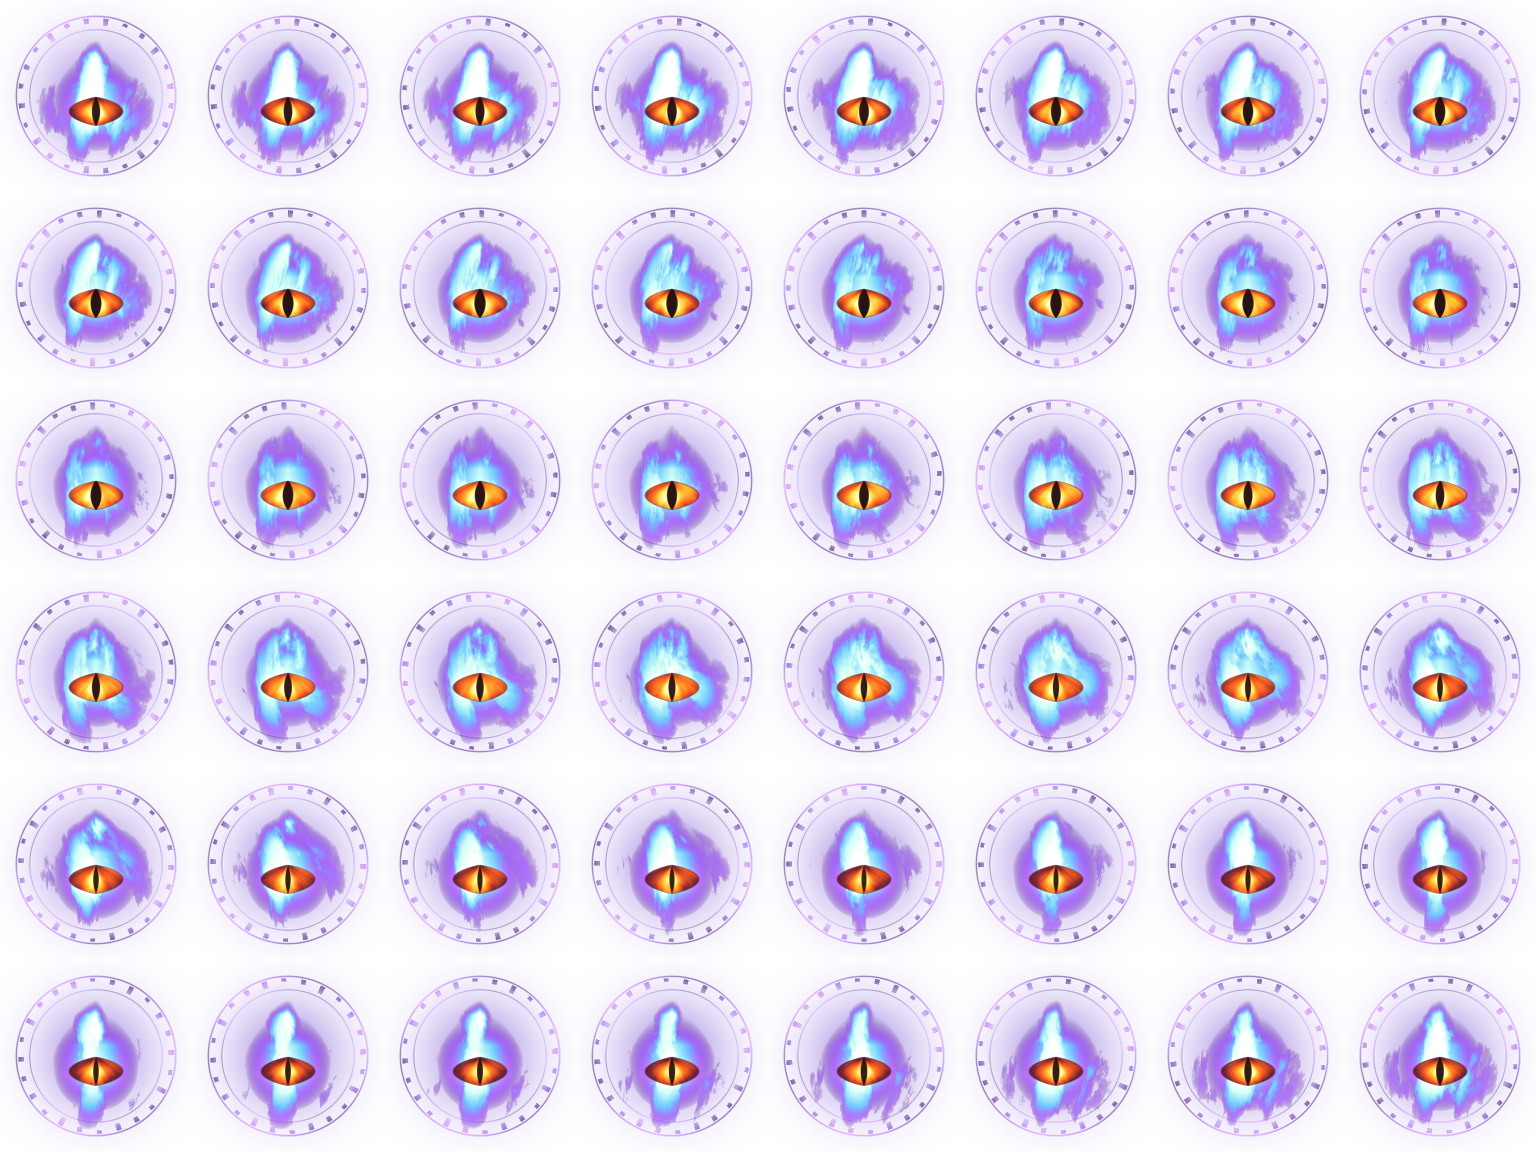
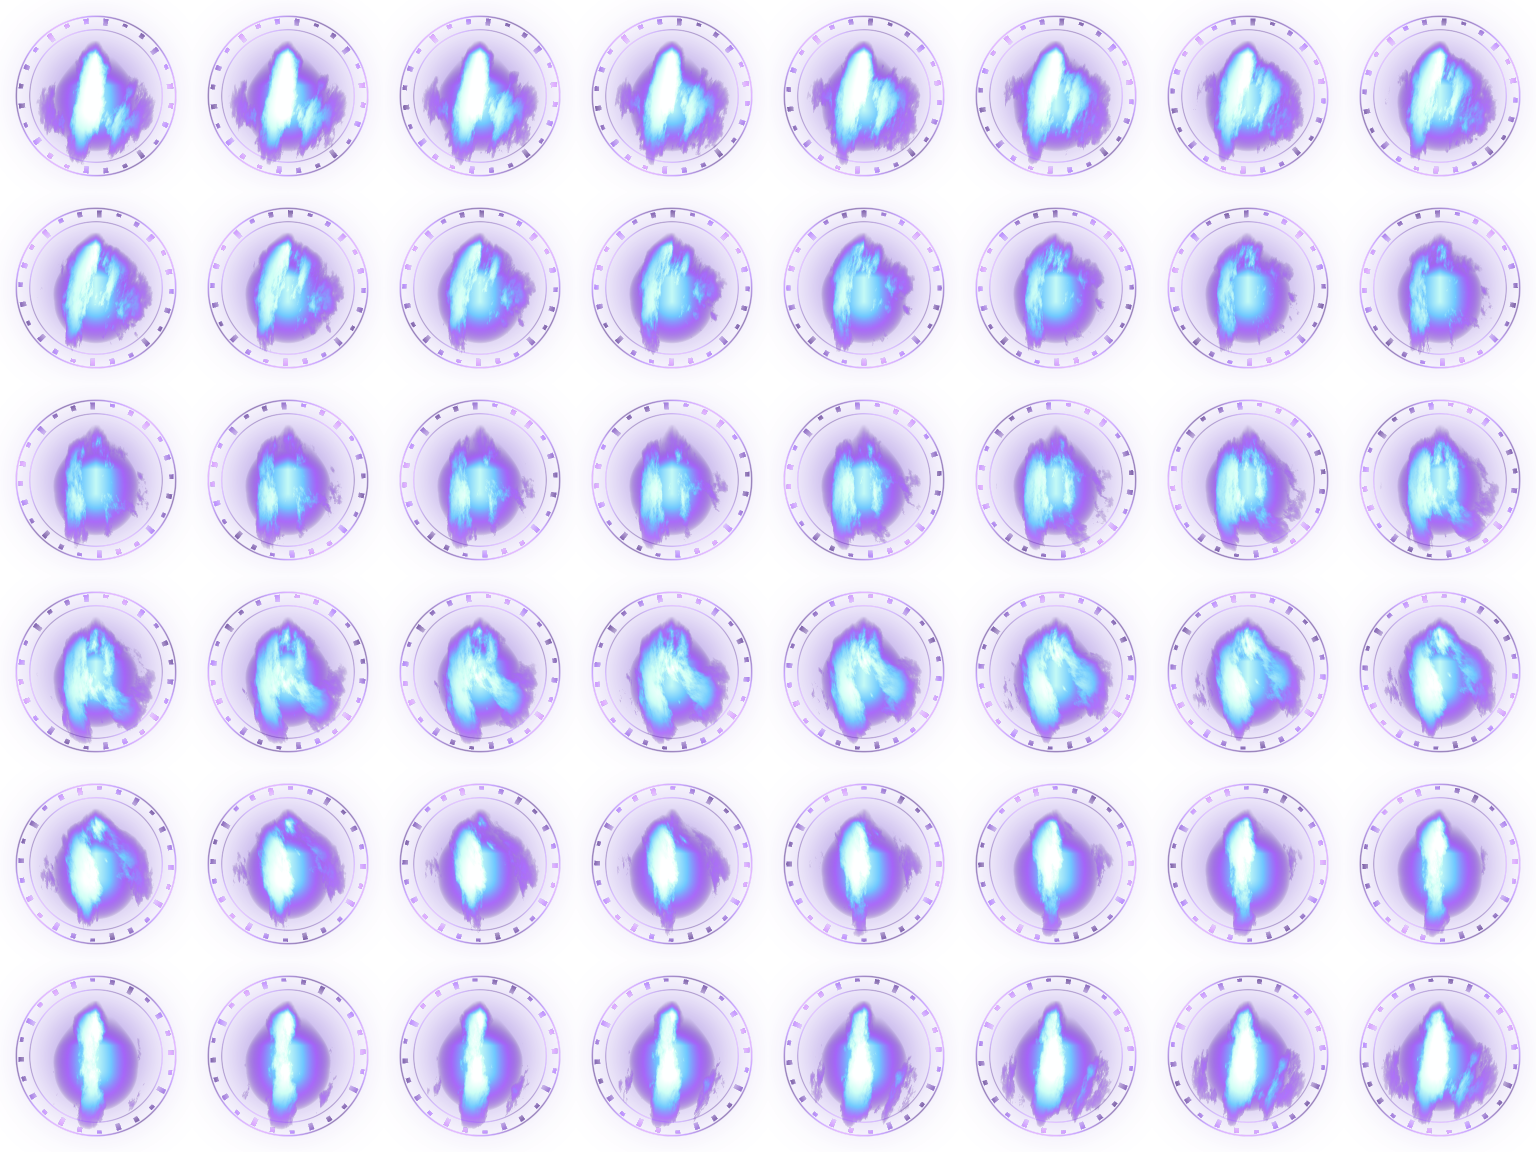
Cursed Essence emblem: the eye taken out of its heart
Claude-Session: https://claude.ai/code/session_01XygewZTgx3ZFWTg4ffda8j

diff --git a/tools/essence.py b/tools/essence.py
@@ -1,6 +1,6 @@
 #!/usr/bin/env python3
-"""The Cursed Essence emblem for the HUD: a soul caught in Alduin's curse - a burning wisp of spectral violet flame
-with a slit dragon's eye in its heart, ringed by a slowly turning circle of dragon-script ticks. A seamlessly looping
+"""The Cursed Essence emblem for the HUD: a soul caught in Alduin's curse - a burning wisp of spectral violet flame,
+ringed by a slowly turning circle of dragon-script ticks. A seamlessly looping
 flipbook drawn by src/Hud.cpp (the essence counter, bottom-left).
 
     python3 tools/essence.py <out.png> [preview.gif]
@@ -68,20 +68,6 @@ def frame(t, A, B, C):
                                                    [0.75, 110, 200, 255], [1.0, 205, 255, 245], [1.2, 255, 255, 255]])
     flame_a = np.clip(heat * 1.5, 0, 1)
 
-    # --- the dragon's eye in its heart: an almond of molten gold-green with a slit pupil that breathes
-    ex, ey = x / 0.28, (y - cy + 0.02) / 0.15
-    almond = 1 - (np.abs(ex) ** 2 + np.abs(ey) ** 2 * (1 + 0.6 * np.abs(ex)))
-    eye_a = np.clip(almond / 0.08, 0, 1)
-    breathe = 0.5 + 0.5 * np.sin(tau)
-    slit_w = 0.035 + 0.035 * breathe
-    slit = np.clip((slit_w * (1 - np.abs(ey * 0.9) ** 2) - np.abs(ex * 0.30)) / 0.012, 0, 1) * eye_a
-    iris_r = np.hypot(ex, ey)
-    streak = sample(A, th * 0.6366, iris_r * 0.25 - t)  # (th/pi*2: radial streaks round the iris)
-    iris_h = np.clip(1.15 - iris_r * 0.95 + 0.22 * streak, 0, 1.2)
-    iris_rgb = ramp(iris_h, [[0.0, 80, 10, 40], [0.35, 200, 60, 20], [0.7, 255, 170, 40], [1.0, 255, 240, 160], [1.2, 255, 255, 230]])
-    iris_rgb = iris_rgb * (1 - slit[..., None]) + np.array([8, 0, 14], np.float32) * slit[..., None]
-    lid = np.clip((0.12 - np.abs(almond - 0.04)) / 0.12, 0, 1) * np.clip(1 - almond / 0.25, 0, 1)  # dark lid rim
-
     # --- the turning ring of dragon-script ticks (12-fold: one twelfth of a turn per loop, so it loops)
     ring_r, ring_w = 0.80, 0.045
     rot = th - tau / 12
@@ -104,18 +90,10 @@ def frame(t, A, B, C):
     # composite (straight alpha, over)
     rgb = glow_rgb * glow_a[..., None]
     a = glow_a
+    tau = tau  # (the ring's turn)
     for c_rgb, c_a in ((ring_rgb, ring_a * 0.9), (flame_rgb, flame_a)):
         rgb = c_rgb * c_a[..., None] + rgb * (1 - c_a[..., None])
         a = c_a + a * (1 - c_a)
-    lid_a = lid * 0.85
-    rgb = np.array([20, 0, 30], np.float32) * lid_a[..., None] + rgb * (1 - lid_a[..., None])
-    a = lid_a + a * (1 - lid_a)
-    rgb = iris_rgb * eye_a[..., None] + rgb * (1 - eye_a[..., None])
-    a = eye_a + a * (1 - eye_a)
-    # a soft bloom of the eye's light over the flame
-    bloom = gaussian_filter(eye_a * (1 - slit), 6 * SS) * 0.6
-    rgb = rgb + np.array([255, 160, 60], np.float32) * bloom[..., None] * 0.5
-    a = np.maximum(a, bloom * 0.8)
     a = np.clip(a, 0, 1)
     rgb = np.where(a[..., None] > 1e-4, rgb / np.maximum(a[..., None], 1e-4), 0)  # (premultiplied -> straight)
     img = np.dstack([np.clip(rgb, 0, 255), np.clip(a, 0, 1) * 255]).astype(np.float32)

diff --git a/src/Hud.cpp b/src/Hud.cpp
@@ -1378,8 +1378,8 @@ float4 main(float4 pos : SV_POSITION, float4 col : COLOR0, float2 uv : TEXCOORD0
 				const ImVec2      coin{ 40 * k, foot - 36 * k };
 				const float       w = 70 * k + std::max(numW, Measure(g_body, 11 * k, "CURSED ESSENCE").x);
 				dl->AddRectFilledMultiColor({ 0, foot - 76 * k }, { w + 70 * k, foot }, IM_COL32(0, 0, 0, Hud::kEdgeHud ? 60 : 90), IM_COL32(0, 0, 0, 0), IM_COL32(0, 0, 0, 0), IM_COL32(0, 0, 0, Hud::kEdgeHud ? 90 : 140));
-				// (Noah: their own essence, not septims - "Cursed Essence", animated) a soul burning in Alduin's curse with his
-				// slit eye in its heart, ringed by turning dragon-script (tools/essence.py: an 8x6 flipbook, 24 frames a second)
+				// (Noah: their own essence, not septims - "Cursed Essence", animated) a soul burning in Alduin's curse,
+				// ringed by turning dragon-script (tools/essence.py: an 8x6 flipbook, 24 frames a second)
 				const float cr = 15 * k;
 				if (g_essence) {
 					const int   fr = static_cast<int>(now * 24.0f) % 48;
